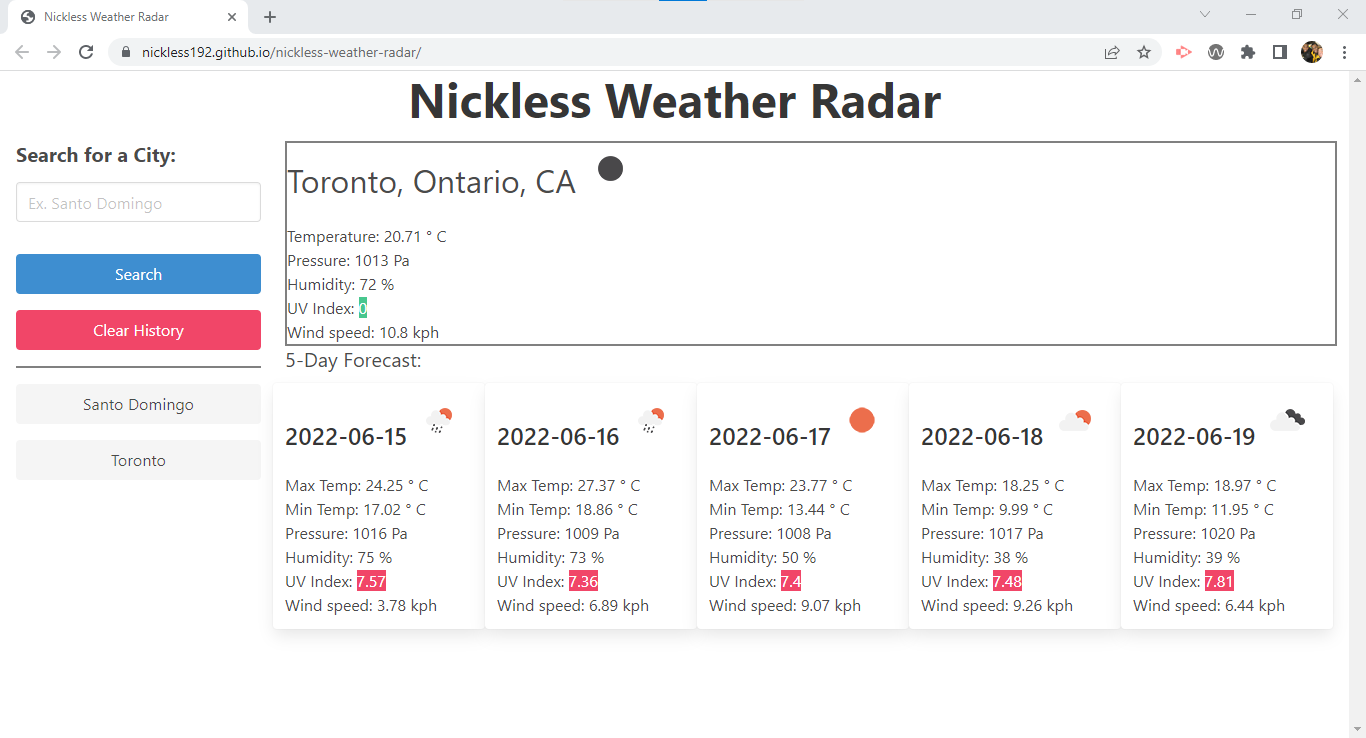
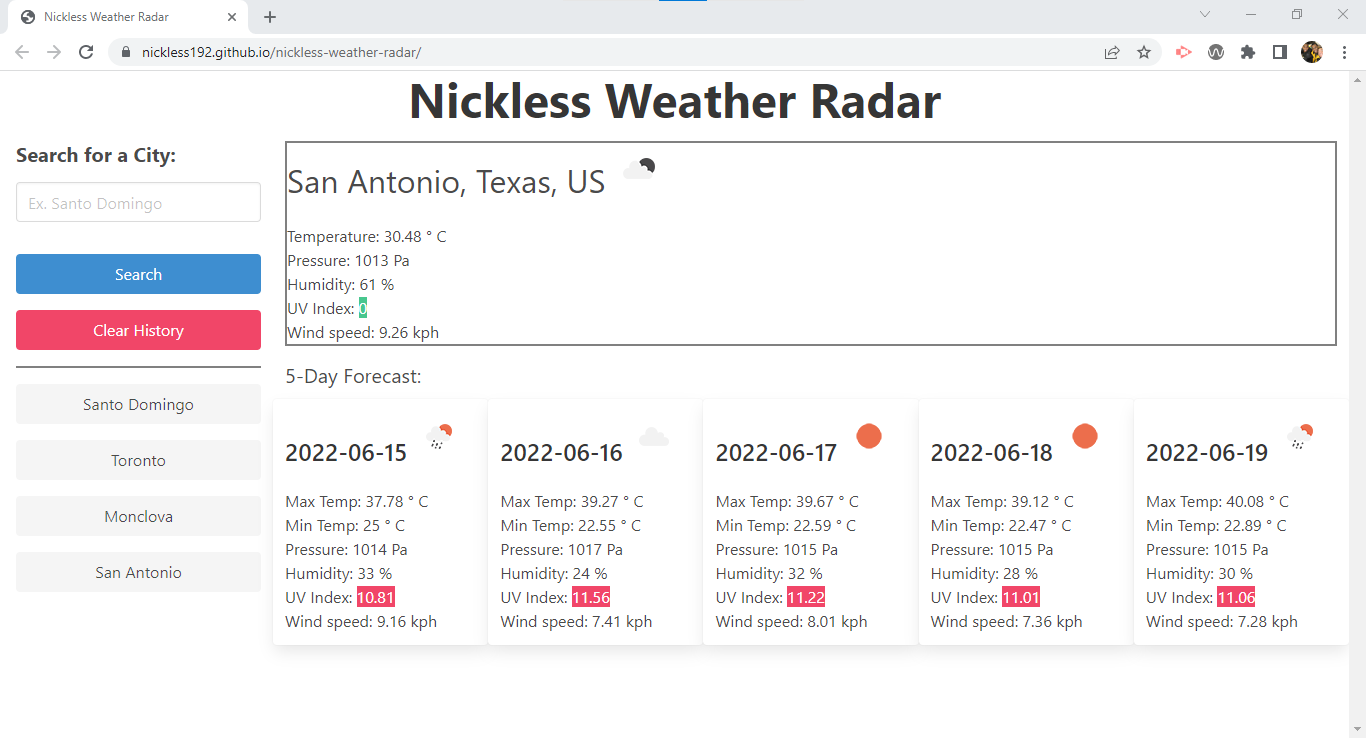
updated screenshot

diff --git a/README.md b/README.md
@@ -12,7 +12,7 @@ The site will display the following information for the user:
 * Wind speed
 * Weather condition
 
-Data will persist if the page is reloaded, with a button added to clear search history both from the page and from local storage.
+Data will persist if the page is reloaded, with a button added to clear search history both from the page and from local storage. Clicking on a city listed in search history will pull the weather data for that city, without updating the search history.
 
 ## User Story
 
